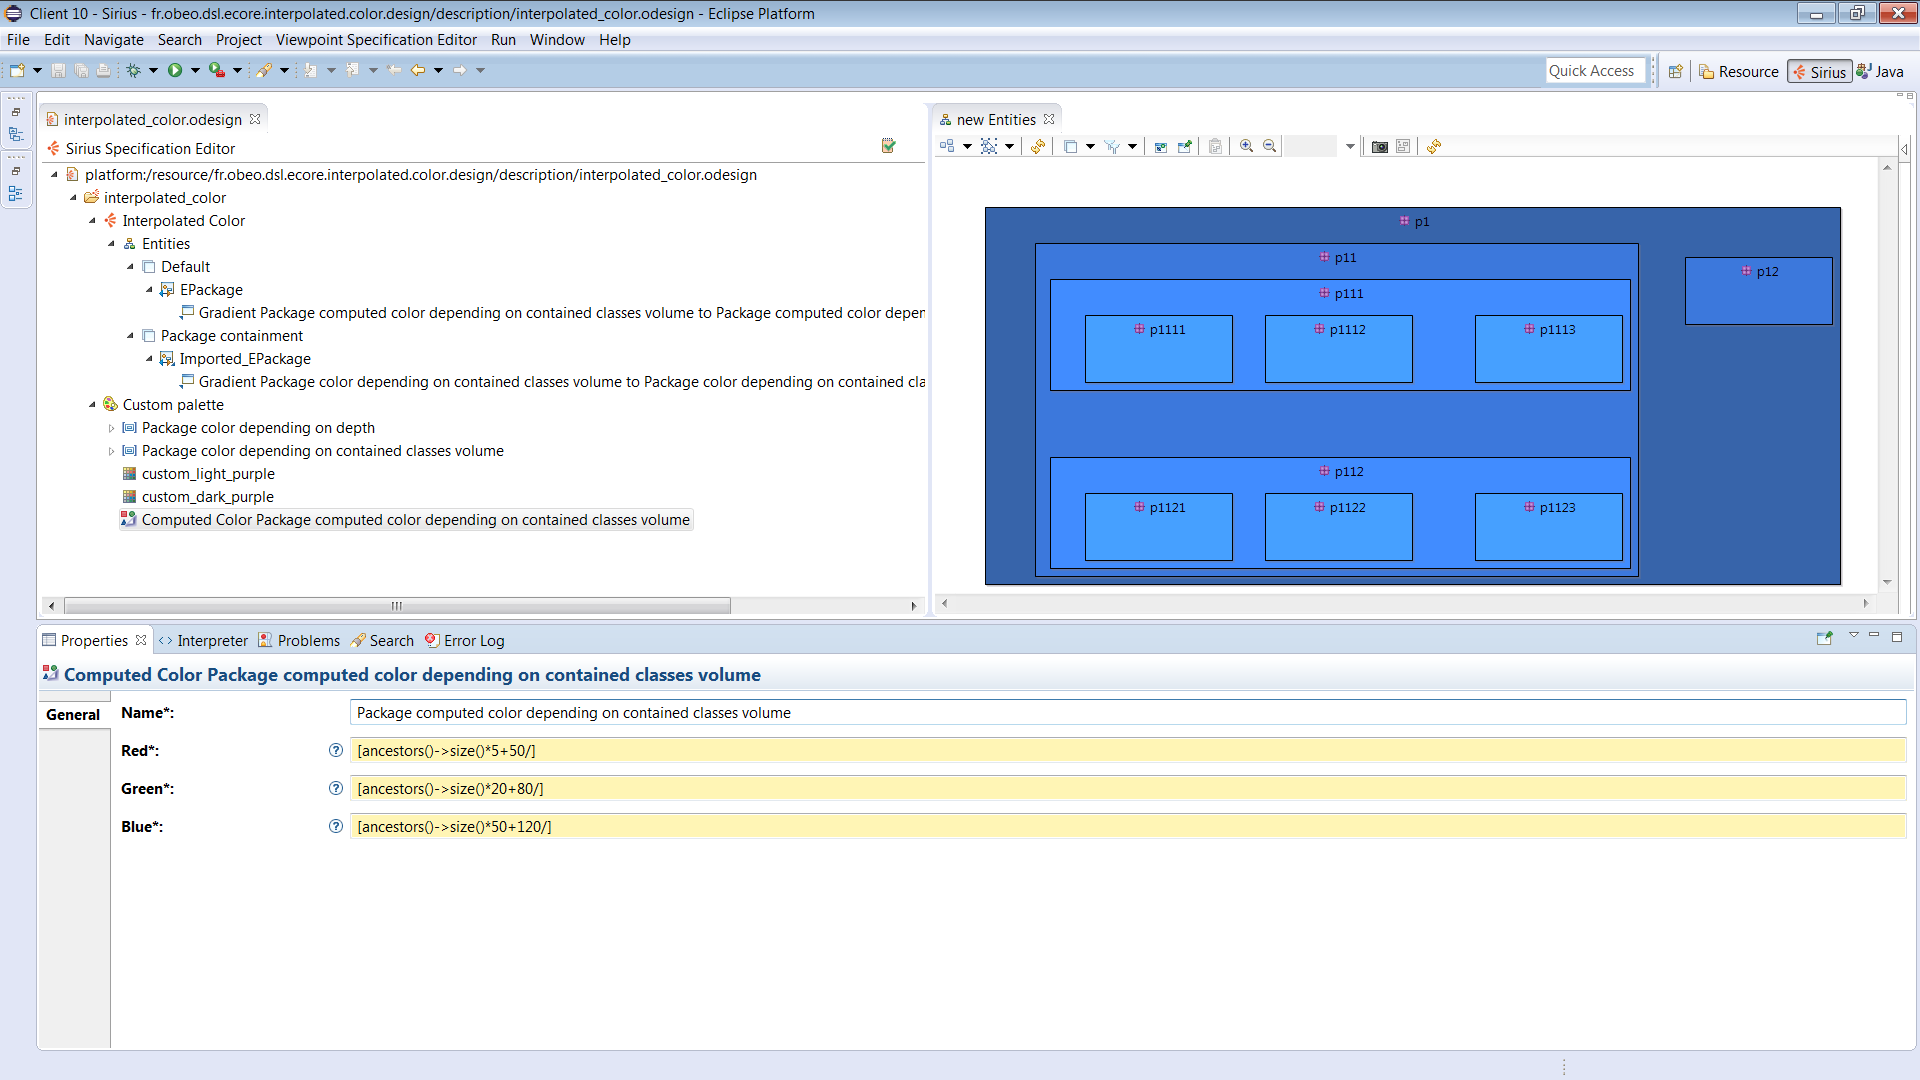
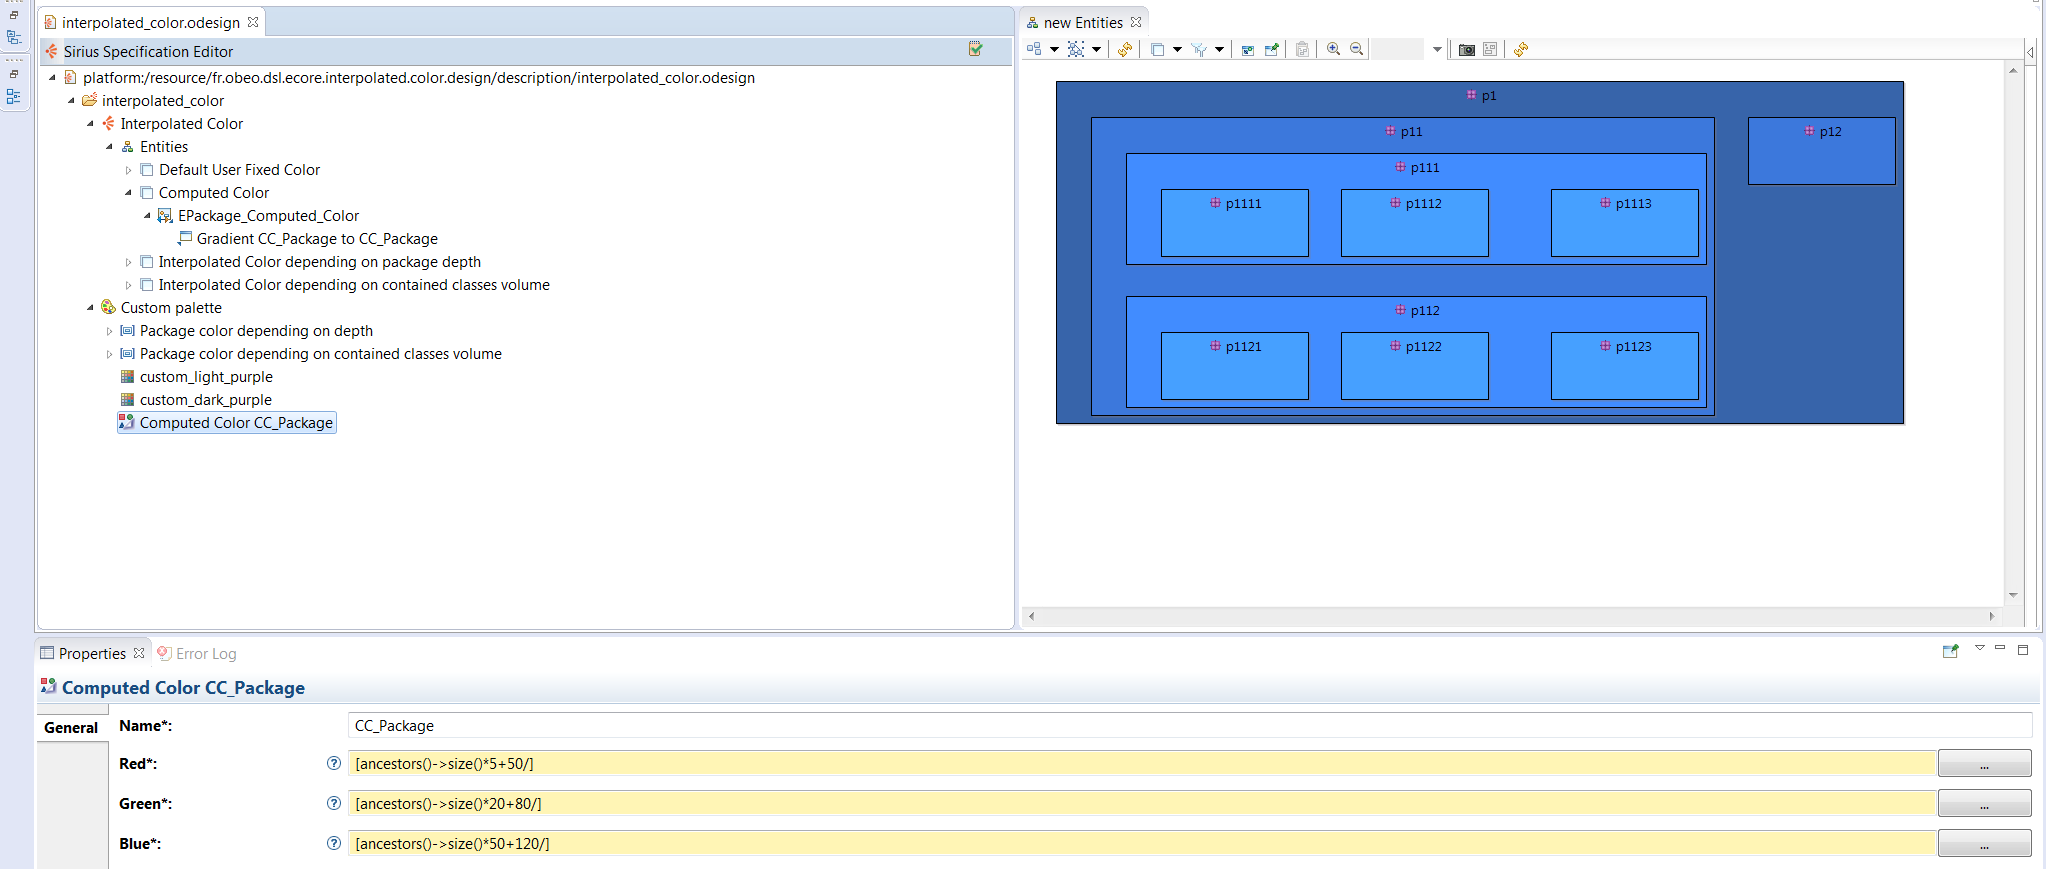
Interpolated Color - Update after review
- VSM sample has been modified to have each color sample in a dedicated
layer
- Screenshots have been updated accordingly
- textile content has been updated to detail a little more how RGB codes
work

diff --git a/interpolated-colors/blog/interpolated-colors.html b/interpolated-colors/blog/interpolated-colors.html
@@ -1,1 +1,1 @@
-<?xml version='1.0' encoding='utf-8' ?><!DOCTYPE html PUBLIC "-//W3C//DTD XHTML 1.0 Transitional//EN" "http://www.w3.org/TR/xhtml1/DTD/xhtml1-transitional.dtd"><html xmlns="http://www.w3.org/1999/xhtml"><head><meta http-equiv="Content-Type" content="text/html; charset=utf-8"/></head><body><h1 id="Refinediagramswithinterpolatedcolors">Refine diagrams with interpolated colors</h1><p>This article is part 4 of a series covering cool features of <a href="http://eclipse.org/sirius/">Sirius</a>  and tips to create advanced modelers. See <a href="http://melb.enix.org/category/sirius/">http://melb.enix.org/category/sirius/</a> for the complete series.<br/>Today we will present how diagrams can be refined to display information using interpolated colors.</p><h2 id="Diagramswithmeaningfulcolors">Diagrams with meaningful colors</h2><p>In your Viewpoint Specification Model (VSM), the specifier is not limited to use the provided colors but can define a palette with custom colors. A color can be defined using a RGB value.<br/><img border="0" src="images/custom_rgb.png"/></p><p>However, using this new color in a mapping will paint every mapping candidates to this color. As our goal is giving colors a meaning, it needs to be defined by an expression. Sirius provides two solutions: <code>Computed Colors</code> and <code>Interpolated Colors</code></p><h3 id="Diagramswithcomputedcolors">Diagrams with computed colors</h3><p><code>Computed colors</code> are alike <code>RGB Colors</code> but instead of choosing an int value for the Red/Green/Blue fields, an expression will be given.<br/><img border="0" src="images/computed_color.png"/></p><p>On this sample the color is computed depending on the depth of the package to represent. As this information is far from a RGB value transposition, the expressions are unfortunately not really natural to write. The <code>Interpolated Colors</code> will offer a more natural conversion.</p><h3 id="Diagramswithinterpolatedcolors">Diagrams with interpolated colors</h3><p>An <code>Interpolated Color</code> is defined by an expression and several <code>Color Steps</code>. The expression should return an integer value. Here is an example where the expression calculate the depth of the current element using the <strong>ancestors()</strong> service.<br/><img border="0" src="images/interpolated_color.png"/></p><p>A <code>Color Step</code> is the association of a color and an integer value. Note that the color selection is not limited by the provided color, but can also be a custom color. In this sample, the selected colors are <code>RGB Colors</code>.<br/><img border="0" src="images/color_steps.png"/></p><p>Depending on the return value of the expression, a color will be created between the defined <code>Color Steps</code>. As close the return value is of a <code>Color Step</code>, as close the result color will be to this <code>Color Step</code>.</p><p>On the previous example, the interpolated was used in order to display EPackage element with a graduation of color depending on the depth because both steps where different tint of a similar color. Of course, the <code>Color Steps</code> can be of different colors and the number of steps is not limited. <br/>On the next example, we want to present the EPackage again but this time the yellow color graduation will depend on the number of contained EClasses. Moreover, we decide that for future refactoring/cleaning purpose, the empty EPackage should be white. Furthermore, the recommended EPackage size is between one and eight EClasses and should be displayed yellow with a tint darker the more contained EClasses there are. Twelve or more EClasses is seen as too many and should be displayed as red. To represent this as an <code>Interpolated Color</code> we have:</p><ul><li>An expression computing the contained Eclasses number: <code>[eContents()-&gt;filter(EClass)-&gt;size()/]</code>;</li><li>A first color step defined as white for value 0;</li><li>A second color step defined as light yellow for value 1;</li><li>A third color step defined as dark yellow for value 8;</li><li>A fourth color step defined as red for value 12.</li></ul><p><img border="0" src="images/interpolated_color2.png"/></p><p>On this sample:</p><ul><li>p1121 and p1123 are empty and displayed as white;</li><li>p112 has 1 EClass and is displayed as light yellow;</li><li>p1 has 3 EClasses and is displayed as a slightly darker yellow;</li><li>p111 has 8 EClasses and is displayed as dark yellow;</li><li>p1122 has 10 EClasses and is displayed some kind of orange/brown as a result of beeing a mix of dark yellow and red;</li><li>p12 has 16 EClasses and is displayed as red.</li></ul><p>The sample code from this example is available on github: <a href="https://github.com/mbats/sirius-blog/tree/master/interpolated-colors">https://github.com/mbats/sirius-blog/tree/master/interpolated-colors</a></p></body></html>
+<?xml version='1.0' encoding='utf-8' ?><!DOCTYPE html PUBLIC "-//W3C//DTD XHTML 1.0 Transitional//EN" "http://www.w3.org/TR/xhtml1/DTD/xhtml1-transitional.dtd"><html xmlns="http://www.w3.org/1999/xhtml"><head><meta http-equiv="Content-Type" content="text/html; charset=utf-8"/></head><body><h1 id="Refinediagramswithinterpolatedcolors">Refine diagrams with interpolated colors</h1><p>This article is part 4 of a series covering cool features of <a href="http://eclipse.org/sirius/">Sirius</a>  and tips to create advanced modelers. See <a href="http://melb.enix.org/category/sirius/">http://melb.enix.org/category/sirius/</a> for the complete series.<br/>Today we will present how diagrams can be refined to display information using interpolated colors.</p><h2 id="Diagramswithmeaningfulcolors">Diagrams with meaningful colors</h2><p>In your Viewpoint Specification Model (VSM), the specifier is not limited to use the provided colors but can define a palette with custom colors. A color can be defined using a RGB code (Red/Green/Blue).<br/><img border="0" src="images/custom_rgb.png"/></p><p>However, using this new color in a mapping will paint every mapping candidates to this color. As our goal is giving colors a meaning, it needs to be defined by an expression. Sirius provides two solutions: <code>Computed Colors</code> and <code>Interpolated Colors</code>.</p><p>Note that RGB codes are defined with three integer values between 0 and 255. If the value is over 255, Sirius will use it as a 255 value. Furthermore you can find  RGB codes using tools like <a href="http://www.colourlovers.com/">www.colourlovers.com</a>.</p><h3 id="Diagramswithcomputedcolors">Diagrams with computed colors</h3><p><code>Computed colors</code> are alike <code>RGB Colors</code> but instead of choosing an int value for the Red/Green/Blue fields, an expression will be given.<br/><img border="0" src="images/computed_color.png"/></p><p>On this sample the color is computed depending on the depth of the package to represent. As this information is far from a RGB value transposition, the expressions are unfortunately not really natural to write. The <code>Interpolated Colors</code> will offer a more natural conversion.</p><h3 id="Diagramswithinterpolatedcolors">Diagrams with interpolated colors</h3><p>An <code>Interpolated Color</code> is defined by an expression and several <code>Color Steps</code>. The expression should return an integer value. Here is an example where the expression calculate the depth of the current element using the <strong>ancestors()</strong> service.<br/><img border="0" src="images/interpolated_color.png"/></p><p>A <code>Color Step</code> is the association of a color and an integer value. Note that the color selection is not limited by the provided color, but can also be a custom color. In this sample, the selected colors are <code>RGB Colors</code>.<br/><img border="0" src="images/color_steps.png"/></p><p>Depending on the return value of the expression, a color will be created between the defined <code>Color Steps</code>. As close the return value is of a <code>Color Step</code>, as close the result color will be to this <code>Color Step</code>.</p><p>On the previous example, the interpolated was used in order to display EPackage element with a graduation of color depending on the depth because both steps where different tint of a similar color. Of course, the <code>Color Steps</code> can be of different colors and the number of steps is not limited. <br/>On the next example, we want to present the EPackage again but this time the yellow color graduation will depend on the number of contained EClasses. Moreover, we decide that for future refactoring/cleaning purpose, the empty EPackage should be white. Furthermore, the recommended EPackage size is between one and eight EClasses and should be displayed yellow with a tint darker the more contained EClasses there are. Twelve or more EClasses is seen as too many and should be displayed as red. To represent this as an <code>Interpolated Color</code> we have:</p><ul><li>An expression computing the contained Eclasses number: <code>[eContents()-&gt;filter(EClass)-&gt;size()/]</code>;</li><li>A first color step defined as white for value 0;</li><li>A second color step defined as light yellow for value 1;</li><li>A third color step defined as dark yellow for value 8;</li><li>A fourth color step defined as red for value 12.</li></ul><p><img border="0" src="images/interpolated_color2.png"/></p><p>On this sample:</p><ul><li>p1121 and p1123 are empty and displayed as white;</li><li>p112 has 1 EClass and is displayed as light yellow;</li><li>p1 has 3 EClasses and is displayed as a slightly darker yellow;</li><li>p111 has 8 EClasses and is displayed as dark yellow;</li><li>p1122 has 10 EClasses and is displayed some kind of orange/brown as a result of beeing a mix of dark yellow and red;</li><li>p12 has 16 EClasses and is displayed as red.</li></ul><p>The sample code from this example is available on github: <a href="https://github.com/mbats/sirius-blog/tree/master/interpolated-colors">https://github.com/mbats/sirius-blog/tree/master/interpolated-colors</a></p></body></html>
